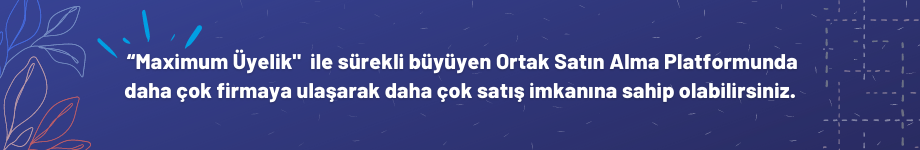
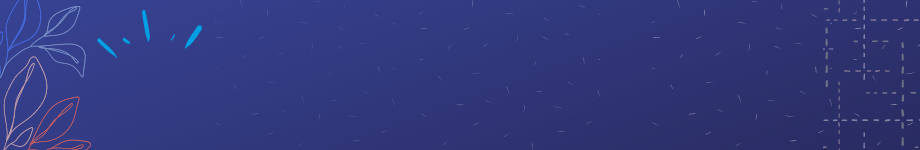
firma davet header

Changed region(s): [[0.1217, 0.32, 0.8826, 0.48], [0.1217, 0.56, 0.8826, 0.6933]]

diff --git a/Firma_davet_sonuc_2.html b/Firma_davet_sonuc_2.html
@@ -12,7 +12,11 @@
 </head>
 
 <body>
-	<div class="logo"><img src="assets/images/thyLogo.png" alt=""></div>
+	<div class="header">
+    <div class="headLeft">
+      <a href="javascript:;" class="inviteLogo"><img src="assets/images/logo.png" alt=""></a>
+    </div>
+  </div>
 
   <div class="container-login100 inviteCompanyWrap">
     <div class="contentWidth">
@@ -20,13 +24,14 @@
       <div class="formWrap">
         <div class="resultWrap">
           <span class="bannerWrap result2">
+            <span class="maximumBannerText">“Maximum Üyelik"  ile sürekli büyüyen Ortak Satın Alma Platformunda <br>
+              daha çok firmaya ulaşarak daha çok satış imkanına sahip olabilirsiniz.</span>
             <img src="assets/images/intengoMaximumBanner.png" alt="Intengo Maximum Üyelik">
           </span>
 
           <span class="textLine1"><i class="fas fa-check"></i> Vestel e-Satınalma sistemine kaydınız başarıyla tamamlandı!</span>
           <span class="textLine1"><i class="fas fa-check"></i> Inpromax Ortak Satın Alma Platformu için kaydınız başarıyla tamamlandı!</span>
           
-
           <div class="intengoPlanSuccess">
             <p>Seçili plan: Maximum Üyelik</p>
             <p>Geçerilik tarihi: 31 Temmuz 2021</p>
@@ -34,8 +39,6 @@
               <a href="javascript:;"><i class="fas fa-sign-in-alt"></i> Sisteme Giriş</a>
             </p>
           </div>
-
-          
 
         </div>
       </div>

diff --git a/assets/sass/main.scss b/assets/sass/main.scss
@@ -2198,7 +2198,8 @@ $badge-max-size: 9px;
 		i{font-size:20px;}
 	}
 	.textLine2 {float:left; width: 100%; color:#007bff; font-size:20px; text-align: center; margin-bottom: 20px; font-weight: 600;}
-	.bannerWrap {float:left; width: 100%; text-align: center; float:left; font-weight: 600;
+	.bannerWrap {float:left; width: 100%; text-align: center; float:left; font-weight: 600; position:relative;
+		.maximumBannerText{position:absolute; left: 105px; top: 46px; font-size: 20px; color: #fff;}
 		img{display:block; width:100%;}
 	}
 	.loginLine{float:left; width:100%; margin-bottom:40px; text-align:right;
@@ -2275,6 +2276,14 @@ $badge-max-size: 9px;
 .companyInviteWatch .dbSearch{margin-right:0; padding-right:0;}
 .inviteCompanyWatch .rpList li span:nth-child(1){width:40%;}
 .inviteCompanyWatch .rpList li span:nth-child(2){width:60%;}
+
+.header{float:left; width:100%; display:flex; align-items:center; justify-content:center; height:90px; padding:0 40px; background-color: #fff; box-shadow: 0 0 10px rgba(0, 0, 0, 0.06);
+	.headLeft{float:left;
+		.inviteLogo{float:left; max-width:150px; width:100%;
+			img{width:100%;}
+		}
+	}
+}
 
 
 // Media queries start

diff --git a/assets/css/main.css b/assets/css/main.css
@@ -6743,6 +6743,15 @@ footer .fContent .fCol ul li a:hover {
   text-align: center;
   float: left;
   font-weight: 600;
+  position: relative;
+}
+
+.resultWrap .bannerWrap .maximumBannerText {
+  position: absolute;
+  left: 105px;
+  top: 46px;
+  font-size: 20px;
+  color: #fff;
 }
 
 .resultWrap .bannerWrap img {
@@ -7045,6 +7054,39 @@ footer .fContent .fCol ul li a:hover {
 
 .inviteCompanyWatch .rpList li span:nth-child(2) {
   width: 60%;
+}
+
+.header {
+  float: left;
+  width: 100%;
+  display: -webkit-box;
+  display: -ms-flexbox;
+  display: flex;
+  -webkit-box-align: center;
+      -ms-flex-align: center;
+          align-items: center;
+  -webkit-box-pack: center;
+      -ms-flex-pack: center;
+          justify-content: center;
+  height: 90px;
+  padding: 0 40px;
+  background-color: #fff;
+  -webkit-box-shadow: 0 0 10px rgba(0, 0, 0, 0.06);
+          box-shadow: 0 0 10px rgba(0, 0, 0, 0.06);
+}
+
+.header .headLeft {
+  float: left;
+}
+
+.header .headLeft .inviteLogo {
+  float: left;
+  max-width: 150px;
+  width: 100%;
+}
+
+.header .headLeft .inviteLogo img {
+  width: 100%;
 }
 
 @media (max-width: 1375px) {

diff --git a/Firma_davet_Sonuc.html b/Firma_davet_Sonuc.html
@@ -12,7 +12,11 @@
 </head>
 
 <body>
-	<div class="logo"><img src="assets/images/thyLogo.png" alt=""></div>
+	<div class="header">
+    <div class="headLeft">
+      <a href="javascript:;" class="inviteLogo"><img src="assets/images/logo.png" alt=""></a>
+    </div>
+  </div>
 
   <div class="container-login100 inviteCompanyWrap">
     <div class="contentWidth">
@@ -30,6 +34,8 @@
           <div class="step">Adım 2</div>
           <span class="textLine2">Inpromax Ortak Satın Alma Platformu'nda yer almak ister misiniz?</span>
           <span class="bannerWrap">
+            <span class="maximumBannerText">“Maximum Üyelik"  ile sürekli büyüyen Ortak Satın Alma Platformunda <br>
+              daha çok firmaya ulaşarak daha çok satış imkanına sahip olabilirsiniz.</span>
             <img src="assets/images/intengoMaximumBanner.png" alt="Intengo Maximum Üyelik">
           </span>
           <table>

diff --git a/Firma_davet_3_Kategori_secimi.html b/Firma_davet_3_Kategori_secimi.html
@@ -12,7 +12,12 @@
 </head>
 
 <body>
-	<div class="logo"><img src="assets/images/thyLogo.png" alt=""></div>
+	<div class="header">
+    <div class="headLeft">
+      <a href="javascript:;" class="inviteLogo"><img src="assets/images/logo.png" alt=""></a>
+    </div>
+  </div>
+	
 	<div class="container-login100 inviteCompanyWrap">
 		<div class="contentWidth">
 			<div class="wizardWrap">

diff --git a/Firma_davet_4_Firma_yetkilisi.html b/Firma_davet_4_Firma_yetkilisi.html
@@ -12,8 +12,11 @@
 </head>
 
 <body>
-
-  <div class="logo"><img src="assets/images/thyLogo.png" alt=""></div>
+  <div class="header">
+    <div class="headLeft">
+      <a href="javascript:;" class="inviteLogo"><img src="assets/images/logo.png" alt=""></a>
+    </div>
+  </div>
   
 	<div class="container-login100 inviteCompanyWrap">
 		<div class="contentWidth">

diff --git a/Firma_davet_1_Firma_kayit.html b/Firma_davet_1_Firma_kayit.html
@@ -12,7 +12,11 @@
 </head>
 
 <body>
-	<div class="logo"><img src="assets/images/thyLogo.png" alt=""></div>
+  <div class="header">
+    <div class="headLeft">
+      <a href="javascript:;" class="inviteLogo"><img src="assets/images/logo.png" alt=""></a>
+    </div>
+  </div>
 
   <div class="container-login100 inviteCompanyWrap">
     <div class="contentWidth">

diff --git a/Firma_davet_2_Firma_bilgisi.html b/Firma_davet_2_Firma_bilgisi.html
@@ -12,7 +12,11 @@
 </head>
 
 <body>
-  <div class="logo"><img src="assets/images/thyLogo.png" alt=""></div>
+  <div class="header">
+    <div class="headLeft">
+      <a href="javascript:;" class="inviteLogo"><img src="assets/images/logo.png" alt=""></a>
+    </div>
+  </div>
   
 	<div class="container-login100 inviteCompanyWrap">
 		<div class="contentWidth">

diff --git a/Firma_davet_Paket_secimi_sonrasi.html b/Firma_davet_Paket_secimi_sonrasi.html
@@ -12,7 +12,12 @@
 </head>
 
 <body>
-	<div class="logo"><img src="assets/images/thyLogo.png" alt=""></div>
+	<div class="header">
+    <div class="headLeft">
+      <a href="javascript:;" class="inviteLogo"><img src="assets/images/logo.png" alt=""></a>
+    </div>
+  </div>
+  
 	<div class="limiter">
 		<div class="container-login100">
       

diff --git a/Firma_davet_Banner.html b/Firma_davet_Banner.html
@@ -12,7 +12,6 @@
 </head>
 
 <body>
-  
 	<div class="container-login100 inviteCompanyWrap">
 		<div class="contentWidth">
       <div class="bannerPlanWrap">
